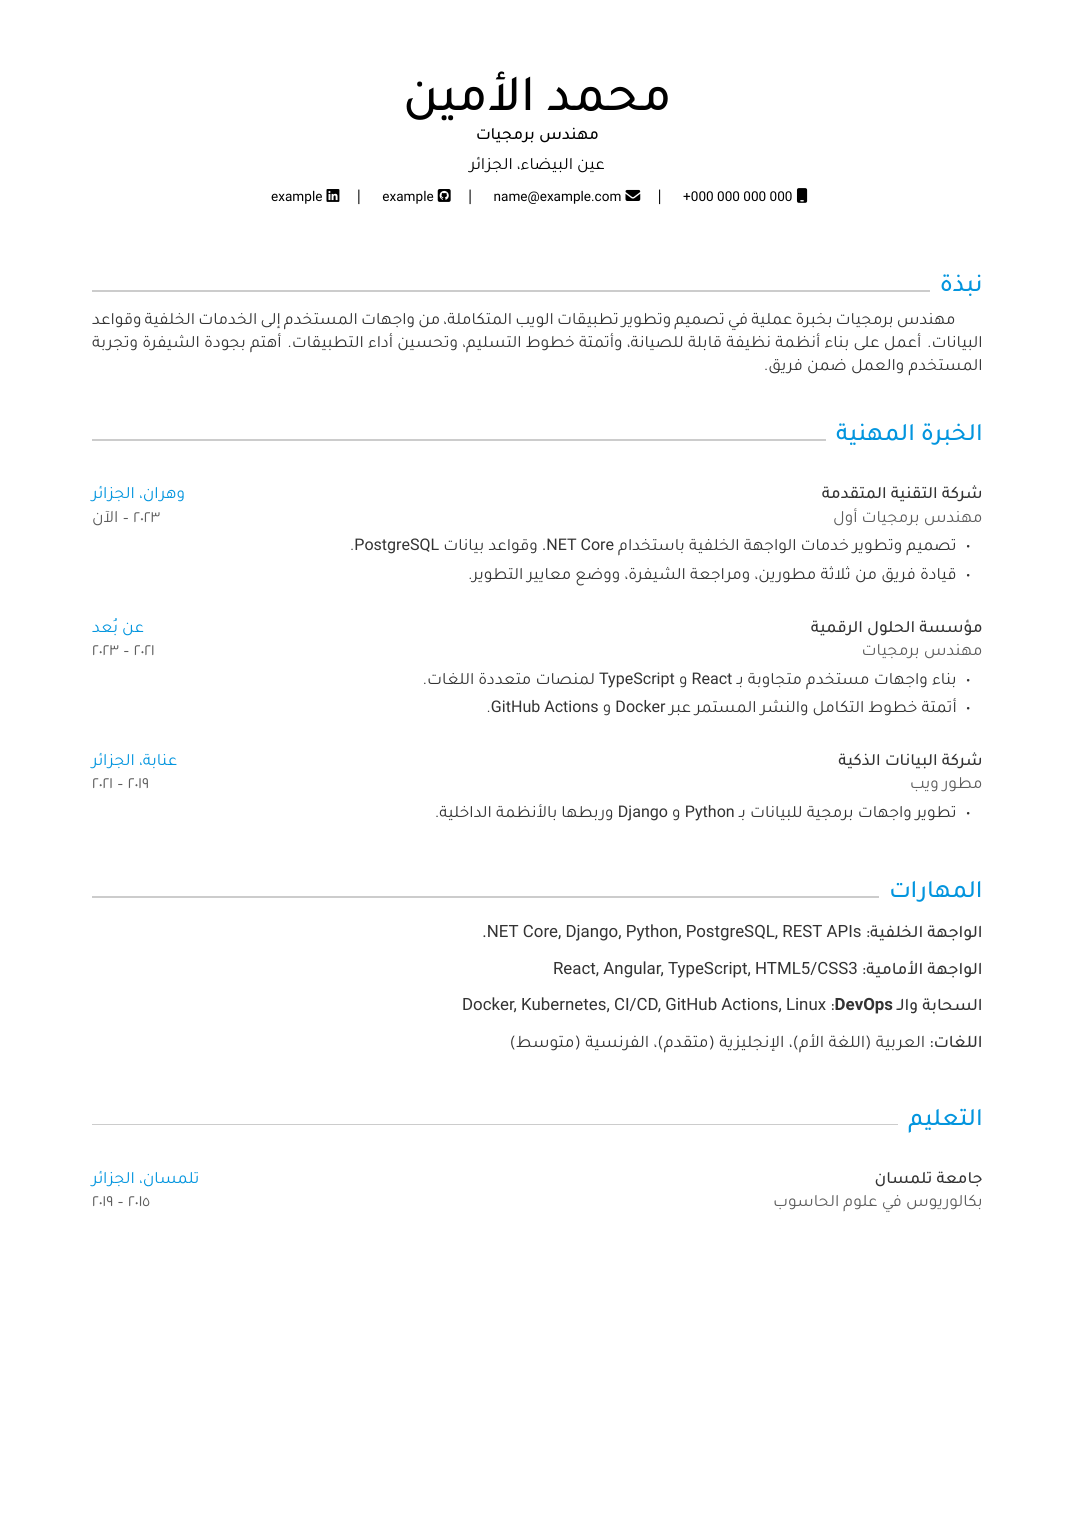
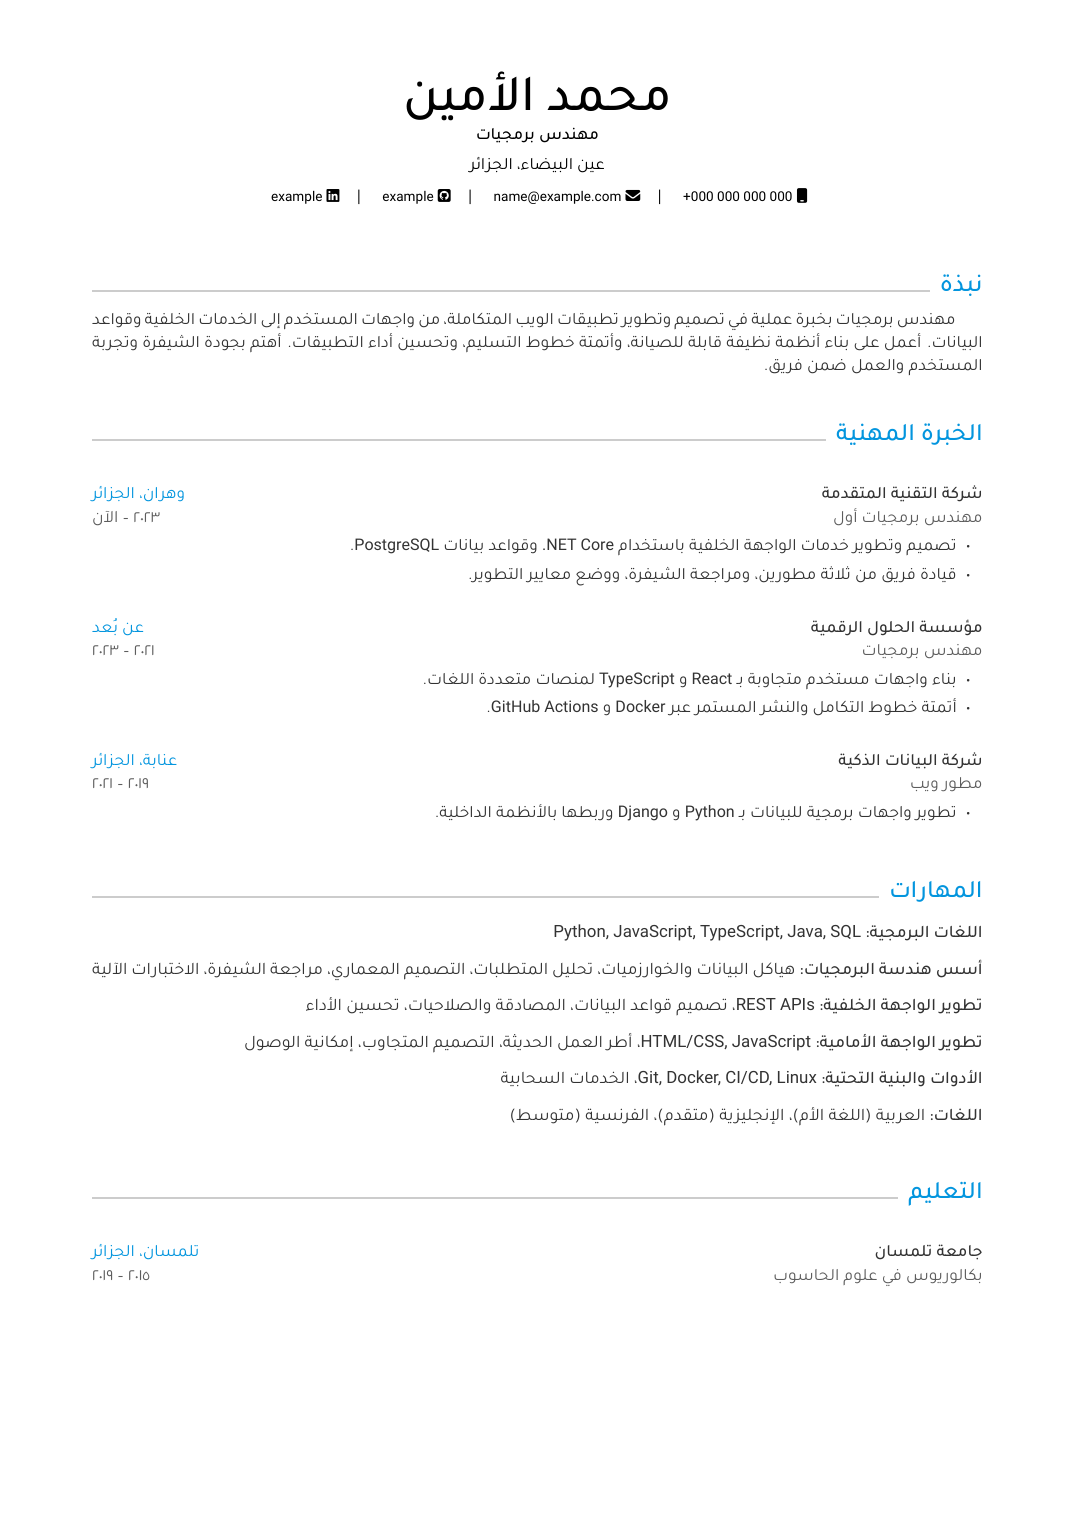
CV: broaden the skills section to a general engineer's profile
The example listed one specific stack - .NET Core, Django, React, Angular - which
reads as a particular person's history rather than a template for anyone. It now
covers what a general software engineer can claim: programming languages;
software-engineering fundamentals (data structures and algorithms, requirements,
design, code review, automated testing); backend; frontend; tooling and
infrastructure; and spoken languages. Brand names give way to "modern frameworks"
so the example does not advertise a stack, and it is consistent with the summary
above it, which was already generic.

Still one page, no new errors, missing glyphs, bidi warnings or overfull boxes,
with the PDF and the preview rebuilt in the same commit.

Changed region(s): [[0.4298, 0.5871, 0.9209, 0.7416], [0.7367, 0.7725, 0.9209, 0.8343], [0.0921, 0.7725, 0.1842, 0.8034]]

diff --git a/examples/cv-ar/skills.tex b/examples/cv-ar/skills.tex
@@ -11,16 +11,24 @@
 \begin{cvskills}
 
 \cvskill
-  {الواجهة الخلفية}
-  {\textenglish{.NET Core, Django, Python, PostgreSQL, REST APIs}}
+  {اللغات البرمجية}
+  {\textenglish{Python, JavaScript, TypeScript, Java, SQL}}
 
 \cvskill
-  {الواجهة الأمامية}
-  {\textenglish{React, Angular, TypeScript, HTML5/CSS3}}
+  {أسس هندسة البرمجيات}
+  {هياكل البيانات والخوارزميات، تحليل المتطلبات، التصميم المعماري، مراجعة الشيفرة، الاختبارات الآلية}
 
 \cvskill
-  {السحابة والـ \textenglish{DevOps}}
-  {\textenglish{Docker, Kubernetes, CI/CD, GitHub Actions, Linux}}
+  {تطوير الواجهة الخلفية}
+  {\textenglish{REST APIs}، تصميم قواعد البيانات، المصادقة والصلاحيات، تحسين الأداء}
+
+\cvskill
+  {تطوير الواجهة الأمامية}
+  {\textenglish{HTML/CSS, JavaScript}، أطر العمل الحديثة، التصميم المتجاوب، إمكانية الوصول}
+
+\cvskill
+  {الأدوات والبنية التحتية}
+  {\textenglish{Git, Docker, CI/CD, Linux}، الخدمات السحابية}
 
 \cvskill
   {اللغات}
